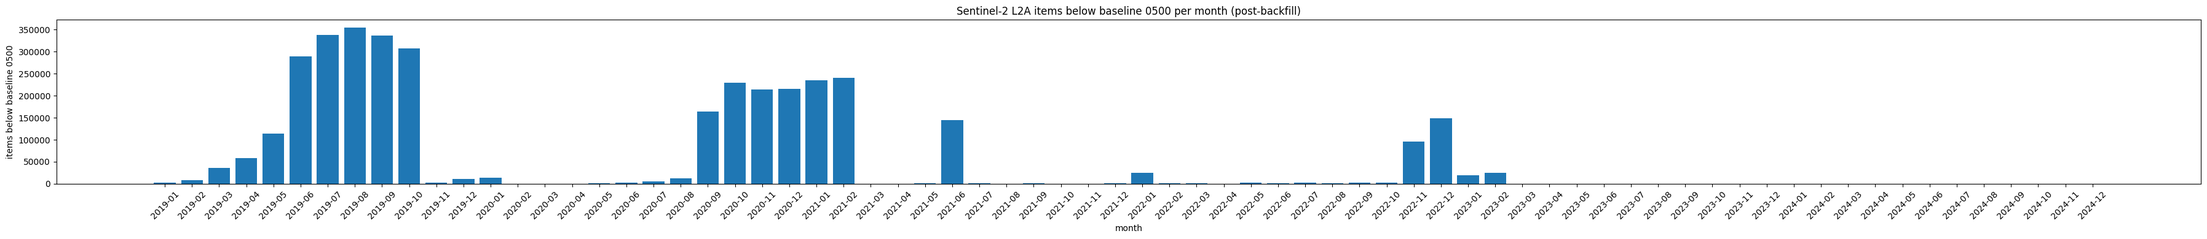
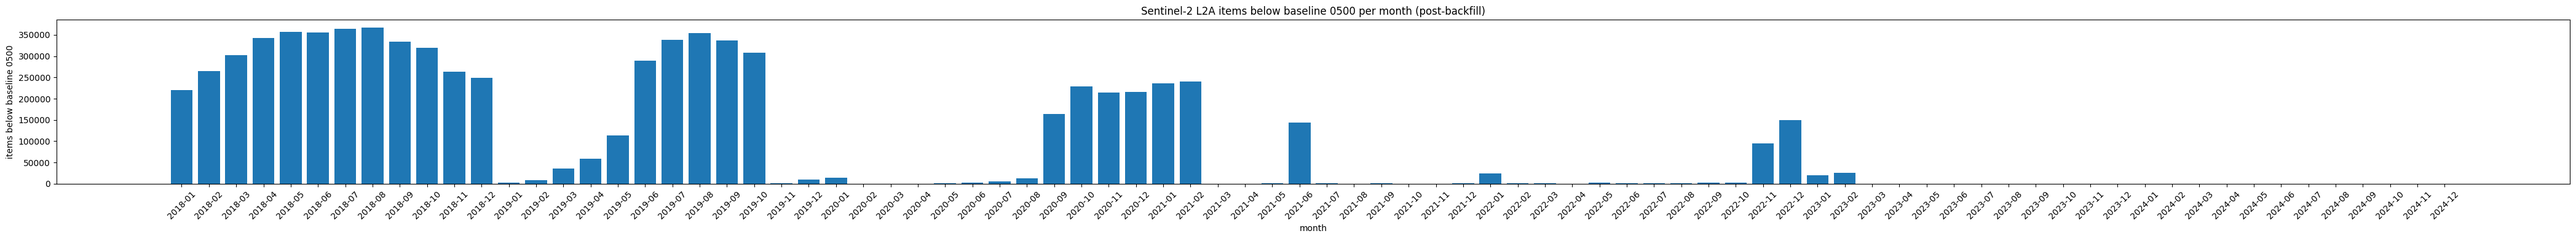
feat: 2018

diff --git a/notebooks/analysis.md b/notebooks/analysis.md
@@ -34,7 +34,19 @@ months
 
 
 
-    ['2019-01',
+    ['2018-01',
+     '2018-02',
+     '2018-03',
+     '2018-04',
+     '2018-05',
+     '2018-06',
+     '2018-07',
+     '2018-08',
+     '2018-09',
+     '2018-10',
+     '2018-11',
+     '2018-12',
+     '2019-01',
      '2019-02',
      '2019-03',
      '2019-04',
@@ -133,7 +145,7 @@ HTML(table)
 
 
 
-<table><tr><th>month</th><th>created</th></tr><tr><td>2019-01</td><td>2026-06-22 15:40:28</td></tr><tr><td>2019-02</td><td>2026-06-22 15:54:50</td></tr><tr><td>2019-03</td><td>2026-06-22 16:02:14</td></tr><tr><td>2019-04</td><td>2026-06-22 16:10:34</td></tr><tr><td>2019-05</td><td>2026-06-22 16:18:51</td></tr><tr><td>2019-06</td><td>2026-06-22 16:27:08</td></tr><tr><td>2019-07</td><td>2026-06-22 16:35:08</td></tr><tr><td>2019-08</td><td>2026-06-22 16:43:28</td></tr><tr><td>2019-09</td><td>2026-06-22 16:51:50</td></tr><tr><td>2019-10</td><td>2026-06-22 17:00:24</td></tr><tr><td>2019-11</td><td>2026-06-23 07:58:52</td></tr><tr><td>2019-12</td><td>2026-06-23 08:02:18</td></tr><tr><td>2020-01</td><td>2026-06-22 14:12:01</td></tr><tr><td>2020-02</td><td>2026-06-22 14:15:47</td></tr><tr><td>2020-03</td><td>2026-06-22 14:19:44</td></tr><tr><td>2020-04</td><td>2026-06-22 14:24:10</td></tr><tr><td>2020-05</td><td>2026-06-22 14:28:28</td></tr><tr><td>2020-06</td><td>2026-06-22 14:32:47</td></tr><tr><td>2020-07</td><td>2026-06-22 14:37:00</td></tr><tr><td>2020-08</td><td>2026-06-22 14:41:19</td></tr><tr><td>2020-09</td><td>2026-06-22 14:45:39</td></tr><tr><td>2020-10</td><td>2026-06-22 14:49:59</td></tr><tr><td>2020-11</td><td>2026-06-22 14:54:07</td></tr><tr><td>2020-12</td><td>2026-06-22 14:57:46</td></tr><tr><td>2021-01</td><td>2026-06-22 10:06:50</td></tr><tr><td>2021-02</td><td>2026-06-22 10:10:26</td></tr><tr><td>2021-03</td><td>2026-06-22 10:14:14</td></tr><tr><td>2021-04</td><td>2026-06-22 10:18:35</td></tr><tr><td>2021-05</td><td>2026-06-22 10:22:39</td></tr><tr><td>2021-06</td><td>2026-06-22 10:26:50</td></tr><tr><td>2021-07</td><td>2026-06-22 10:30:52</td></tr><tr><td>2021-08</td><td>2026-06-22 10:35:01</td></tr><tr><td>2021-09</td><td>2026-06-22 10:39:14</td></tr><tr><td>2021-10</td><td>2026-06-22 10:43:24</td></tr><tr><td>2021-11</td><td>2026-06-22 13:51:54</td></tr><tr><td>2021-12</td><td>2026-06-22 14:00:07</td></tr><tr><td>2022-01</td><td>2026-06-22 07:26:45</td></tr><tr><td>2022-02</td><td>2026-06-22 07:30:20</td></tr><tr><td>2022-03</td><td>2026-06-22 07:34:02</td></tr><tr><td>2022-04</td><td>2026-06-22 07:38:19</td></tr><tr><td>2022-05</td><td>2026-06-22 07:42:27</td></tr><tr><td>2022-06</td><td>2026-06-22 08:28:20</td></tr><tr><td>2022-07</td><td>2026-06-22 08:32:37</td></tr><tr><td>2022-08</td><td>2026-06-22 08:52:52</td></tr><tr><td>2022-09</td><td>2026-06-22 08:57:13</td></tr><tr><td>2022-10</td><td>2026-06-22 09:01:29</td></tr><tr><td>2022-11</td><td>2026-06-22 09:05:44</td></tr><tr><td>2022-12</td><td>2026-06-22 09:09:24</td></tr><tr><td>2023-01</td><td>2026-06-18 15:38:48</td></tr><tr><td>2023-02</td><td>2026-06-18 15:42:36</td></tr><tr><td>2023-03</td><td>2026-06-18 15:46:28</td></tr><tr><td>2023-04</td><td>2026-06-18 15:50:52</td></tr><tr><td>2023-05</td><td>2026-06-18 15:55:00</td></tr><tr><td>2023-06</td><td>2026-06-18 15:59:15</td></tr><tr><td>2023-07</td><td>2026-06-18 16:03:22</td></tr><tr><td>2023-08</td><td>2026-06-18 16:07:37</td></tr><tr><td>2023-09</td><td>2026-06-18 16:11:54</td></tr><tr><td>2023-10</td><td>2026-06-18 16:16:11</td></tr><tr><td>2023-11</td><td>2026-06-22 06:39:18</td></tr><tr><td>2023-12</td><td>2026-06-22 06:43:01</td></tr><tr><td>2024-01</td><td>2026-06-18 14:10:36</td></tr><tr><td>2024-02</td><td>2026-06-18 14:14:19</td></tr><tr><td>2024-03</td><td>2026-06-18 14:18:12</td></tr><tr><td>2024-04</td><td>2026-06-18 14:22:31</td></tr><tr><td>2024-05</td><td>2026-06-18 14:26:33</td></tr><tr><td>2024-06</td><td>2026-06-18 14:30:36</td></tr><tr><td>2024-07</td><td>2026-06-18 14:34:40</td></tr><tr><td>2024-08</td><td>2026-06-18 14:38:51</td></tr><tr><td>2024-09</td><td>2026-06-18 14:43:06</td></tr><tr><td>2024-10</td><td>2026-06-18 14:46:33</td></tr><tr><td>2024-11</td><td>2026-06-18 14:50:47</td></tr><tr><td>2024-12</td><td>2026-06-18 14:54:32</td></tr></table>
+<table><tr><th>month</th><th>created</th></tr><tr><td>2018-01</td><td>2026-06-23 08:37:19</td></tr><tr><td>2018-02</td><td>2026-06-23 08:40:16</td></tr><tr><td>2018-03</td><td>2026-06-23 08:43:31</td></tr><tr><td>2018-04</td><td>2026-06-23 08:47:02</td></tr><tr><td>2018-05</td><td>2026-06-23 08:50:44</td></tr><tr><td>2018-06</td><td>2026-06-23 08:54:31</td></tr><tr><td>2018-07</td><td>2026-06-23 08:58:15</td></tr><tr><td>2018-08</td><td>2026-06-23 09:02:04</td></tr><tr><td>2018-09</td><td>2026-06-23 09:05:55</td></tr><tr><td>2018-10</td><td>2026-06-23 09:09:38</td></tr><tr><td>2018-11</td><td>2026-06-23 09:13:30</td></tr><tr><td>2018-12</td><td>2026-06-23 09:16:46</td></tr><tr><td>2019-01</td><td>2026-06-22 15:40:28</td></tr><tr><td>2019-02</td><td>2026-06-22 15:54:50</td></tr><tr><td>2019-03</td><td>2026-06-22 16:02:14</td></tr><tr><td>2019-04</td><td>2026-06-22 16:10:34</td></tr><tr><td>2019-05</td><td>2026-06-22 16:18:51</td></tr><tr><td>2019-06</td><td>2026-06-22 16:27:08</td></tr><tr><td>2019-07</td><td>2026-06-22 16:35:08</td></tr><tr><td>2019-08</td><td>2026-06-22 16:43:28</td></tr><tr><td>2019-09</td><td>2026-06-22 16:51:50</td></tr><tr><td>2019-10</td><td>2026-06-22 17:00:24</td></tr><tr><td>2019-11</td><td>2026-06-23 07:58:52</td></tr><tr><td>2019-12</td><td>2026-06-23 08:02:18</td></tr><tr><td>2020-01</td><td>2026-06-22 14:12:01</td></tr><tr><td>2020-02</td><td>2026-06-22 14:15:47</td></tr><tr><td>2020-03</td><td>2026-06-22 14:19:44</td></tr><tr><td>2020-04</td><td>2026-06-22 14:24:10</td></tr><tr><td>2020-05</td><td>2026-06-22 14:28:28</td></tr><tr><td>2020-06</td><td>2026-06-22 14:32:47</td></tr><tr><td>2020-07</td><td>2026-06-22 14:37:00</td></tr><tr><td>2020-08</td><td>2026-06-22 14:41:19</td></tr><tr><td>2020-09</td><td>2026-06-22 14:45:39</td></tr><tr><td>2020-10</td><td>2026-06-22 14:49:59</td></tr><tr><td>2020-11</td><td>2026-06-22 14:54:07</td></tr><tr><td>2020-12</td><td>2026-06-22 14:57:46</td></tr><tr><td>2021-01</td><td>2026-06-22 10:06:50</td></tr><tr><td>2021-02</td><td>2026-06-22 10:10:26</td></tr><tr><td>2021-03</td><td>2026-06-22 10:14:14</td></tr><tr><td>2021-04</td><td>2026-06-22 10:18:35</td></tr><tr><td>2021-05</td><td>2026-06-22 10:22:39</td></tr><tr><td>2021-06</td><td>2026-06-22 10:26:50</td></tr><tr><td>2021-07</td><td>2026-06-22 10:30:52</td></tr><tr><td>2021-08</td><td>2026-06-22 10:35:01</td></tr><tr><td>2021-09</td><td>2026-06-22 10:39:14</td></tr><tr><td>2021-10</td><td>2026-06-22 10:43:24</td></tr><tr><td>2021-11</td><td>2026-06-22 13:51:54</td></tr><tr><td>2021-12</td><td>2026-06-22 14:00:07</td></tr><tr><td>2022-01</td><td>2026-06-22 07:26:45</td></tr><tr><td>2022-02</td><td>2026-06-22 07:30:20</td></tr><tr><td>2022-03</td><td>2026-06-22 07:34:02</td></tr><tr><td>2022-04</td><td>2026-06-22 07:38:19</td></tr><tr><td>2022-05</td><td>2026-06-22 07:42:27</td></tr><tr><td>2022-06</td><td>2026-06-22 08:28:20</td></tr><tr><td>2022-07</td><td>2026-06-22 08:32:37</td></tr><tr><td>2022-08</td><td>2026-06-22 08:52:52</td></tr><tr><td>2022-09</td><td>2026-06-22 08:57:13</td></tr><tr><td>2022-10</td><td>2026-06-22 09:01:29</td></tr><tr><td>2022-11</td><td>2026-06-22 09:05:44</td></tr><tr><td>2022-12</td><td>2026-06-22 09:09:24</td></tr><tr><td>2023-01</td><td>2026-06-18 15:38:48</td></tr><tr><td>2023-02</td><td>2026-06-18 15:42:36</td></tr><tr><td>2023-03</td><td>2026-06-18 15:46:28</td></tr><tr><td>2023-04</td><td>2026-06-18 15:50:52</td></tr><tr><td>2023-05</td><td>2026-06-18 15:55:00</td></tr><tr><td>2023-06</td><td>2026-06-18 15:59:15</td></tr><tr><td>2023-07</td><td>2026-06-18 16:03:22</td></tr><tr><td>2023-08</td><td>2026-06-18 16:07:37</td></tr><tr><td>2023-09</td><td>2026-06-18 16:11:54</td></tr><tr><td>2023-10</td><td>2026-06-18 16:16:11</td></tr><tr><td>2023-11</td><td>2026-06-22 06:39:18</td></tr><tr><td>2023-12</td><td>2026-06-22 06:43:01</td></tr><tr><td>2024-01</td><td>2026-06-18 14:10:36</td></tr><tr><td>2024-02</td><td>2026-06-18 14:14:19</td></tr><tr><td>2024-03</td><td>2026-06-18 14:18:12</td></tr><tr><td>2024-04</td><td>2026-06-18 14:22:31</td></tr><tr><td>2024-05</td><td>2026-06-18 14:26:33</td></tr><tr><td>2024-06</td><td>2026-06-18 14:30:36</td></tr><tr><td>2024-07</td><td>2026-06-18 14:34:40</td></tr><tr><td>2024-08</td><td>2026-06-18 14:38:51</td></tr><tr><td>2024-09</td><td>2026-06-18 14:43:06</td></tr><tr><td>2024-10</td><td>2026-06-18 14:46:33</td></tr><tr><td>2024-11</td><td>2026-06-18 14:50:47</td></tr><tr><td>2024-12</td><td>2026-06-18 14:54:32</td></tr></table>
 
 
 
